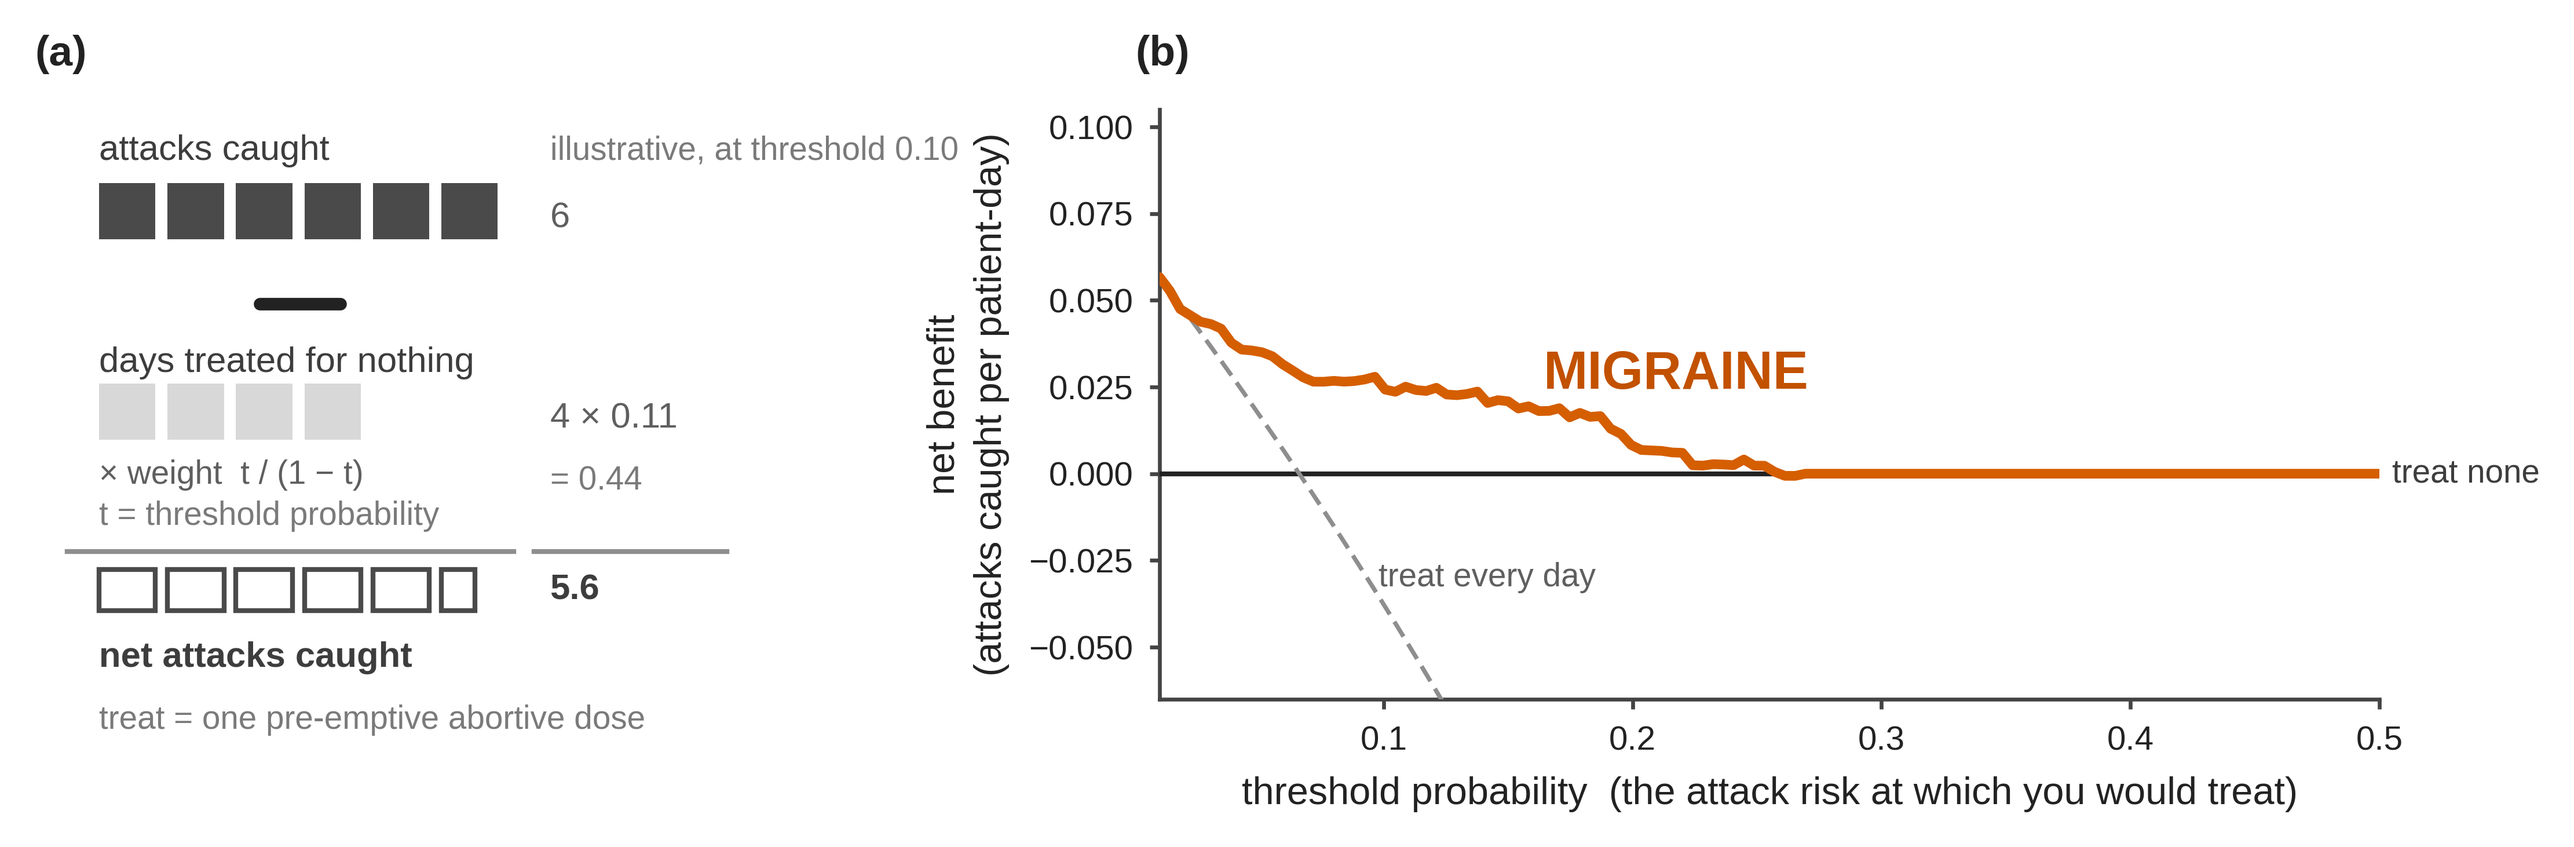
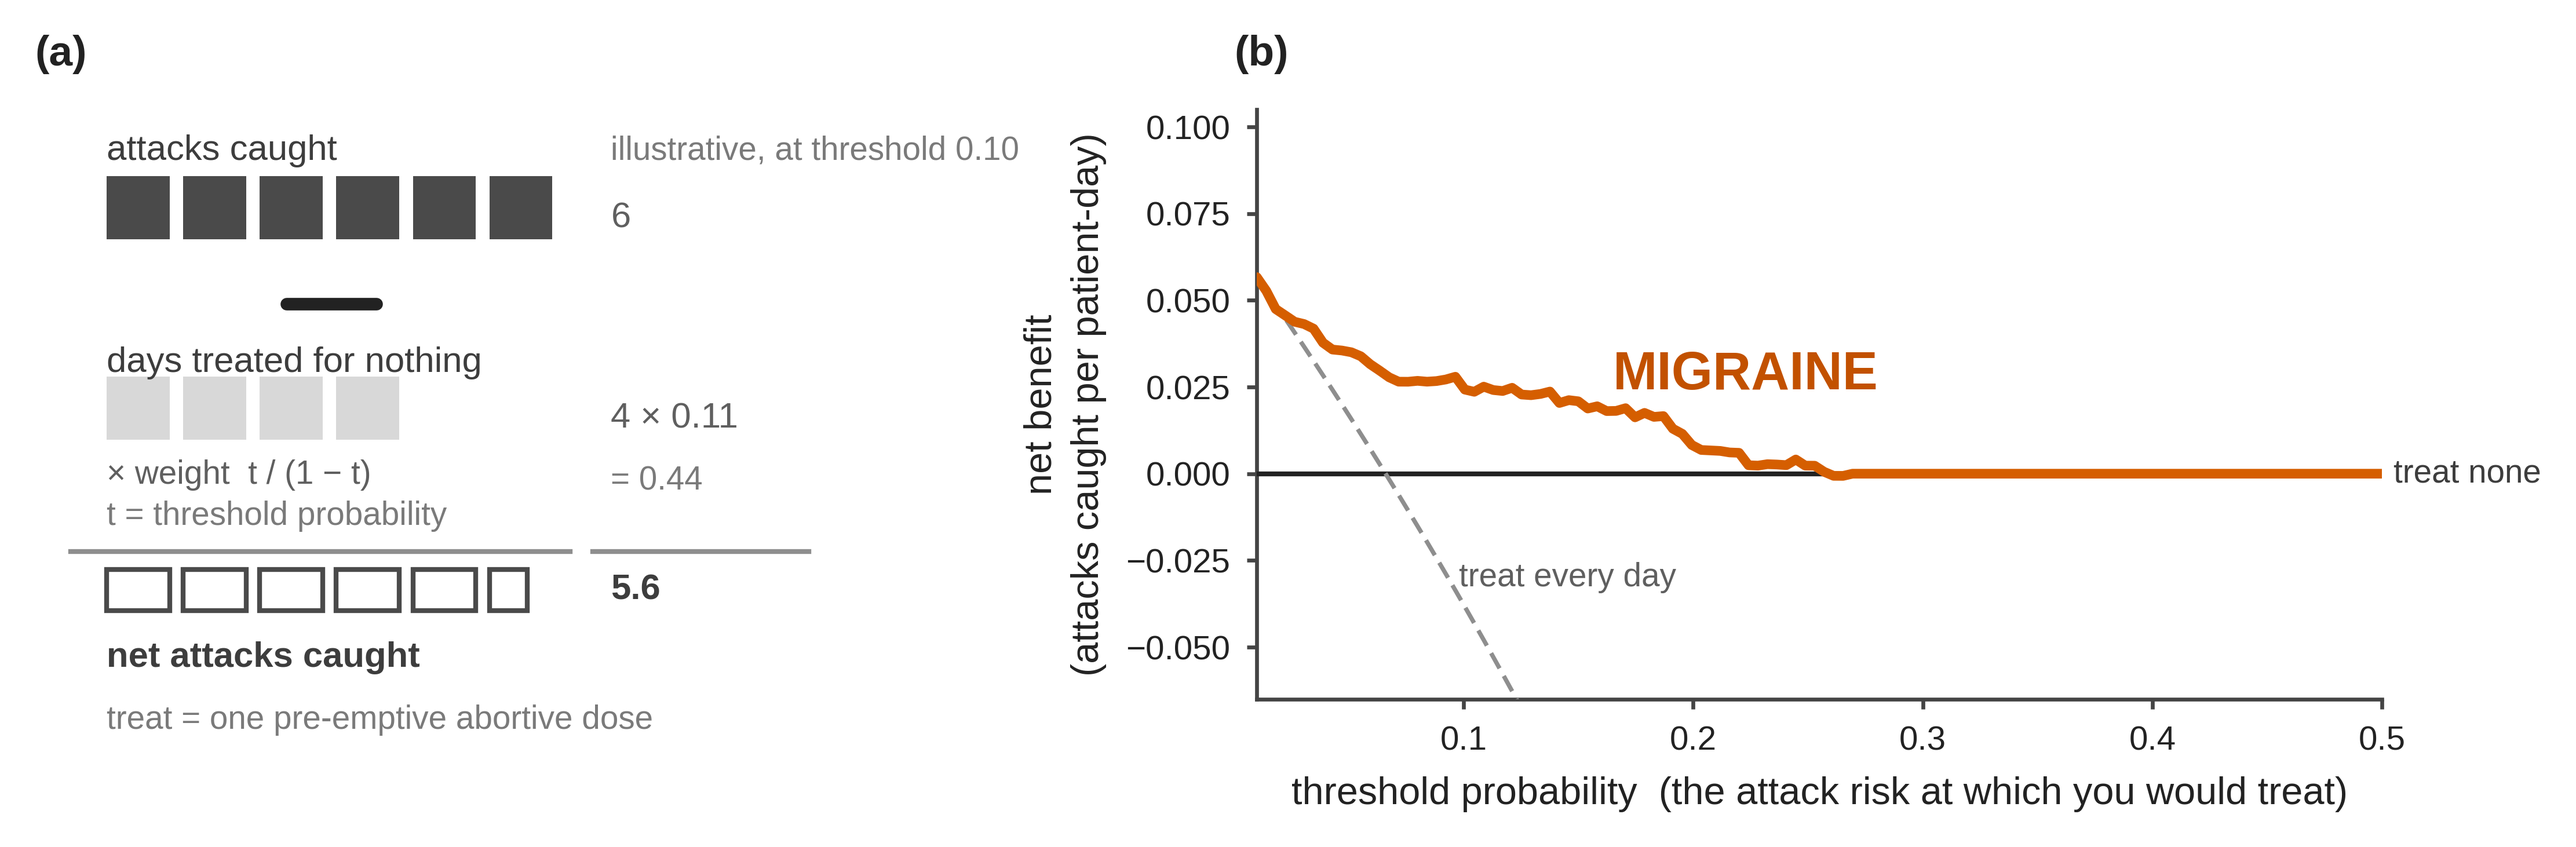
wide

diff --git a/docs/methodAndResults_diagramCreatorScripts/fig_m_evaluation_series.py b/docs/methodAndResults_diagramCreatorScripts/fig_m_evaluation_series.py
@@ -496,7 +496,7 @@ def main() -> None:
     _one("fig_m2_within_person", _how_within, (), _rank_panel, ())
     _one("fig_m3_brier_skill", _how_brier, (), _skill_panel,
          ([("migraine", mig_row), ("headache", hea_row)], [ORA, BLU]))
-    _one("fig_m4_net_benefit", _how_dca, (), _dca_panel, (preds, ORA), wr=0.66)
+    _one("fig_m4_net_benefit", _how_dca, (), _dca_panel, (preds, ORA), wr=0.80)
 
 
 if __name__ == "__main__":
